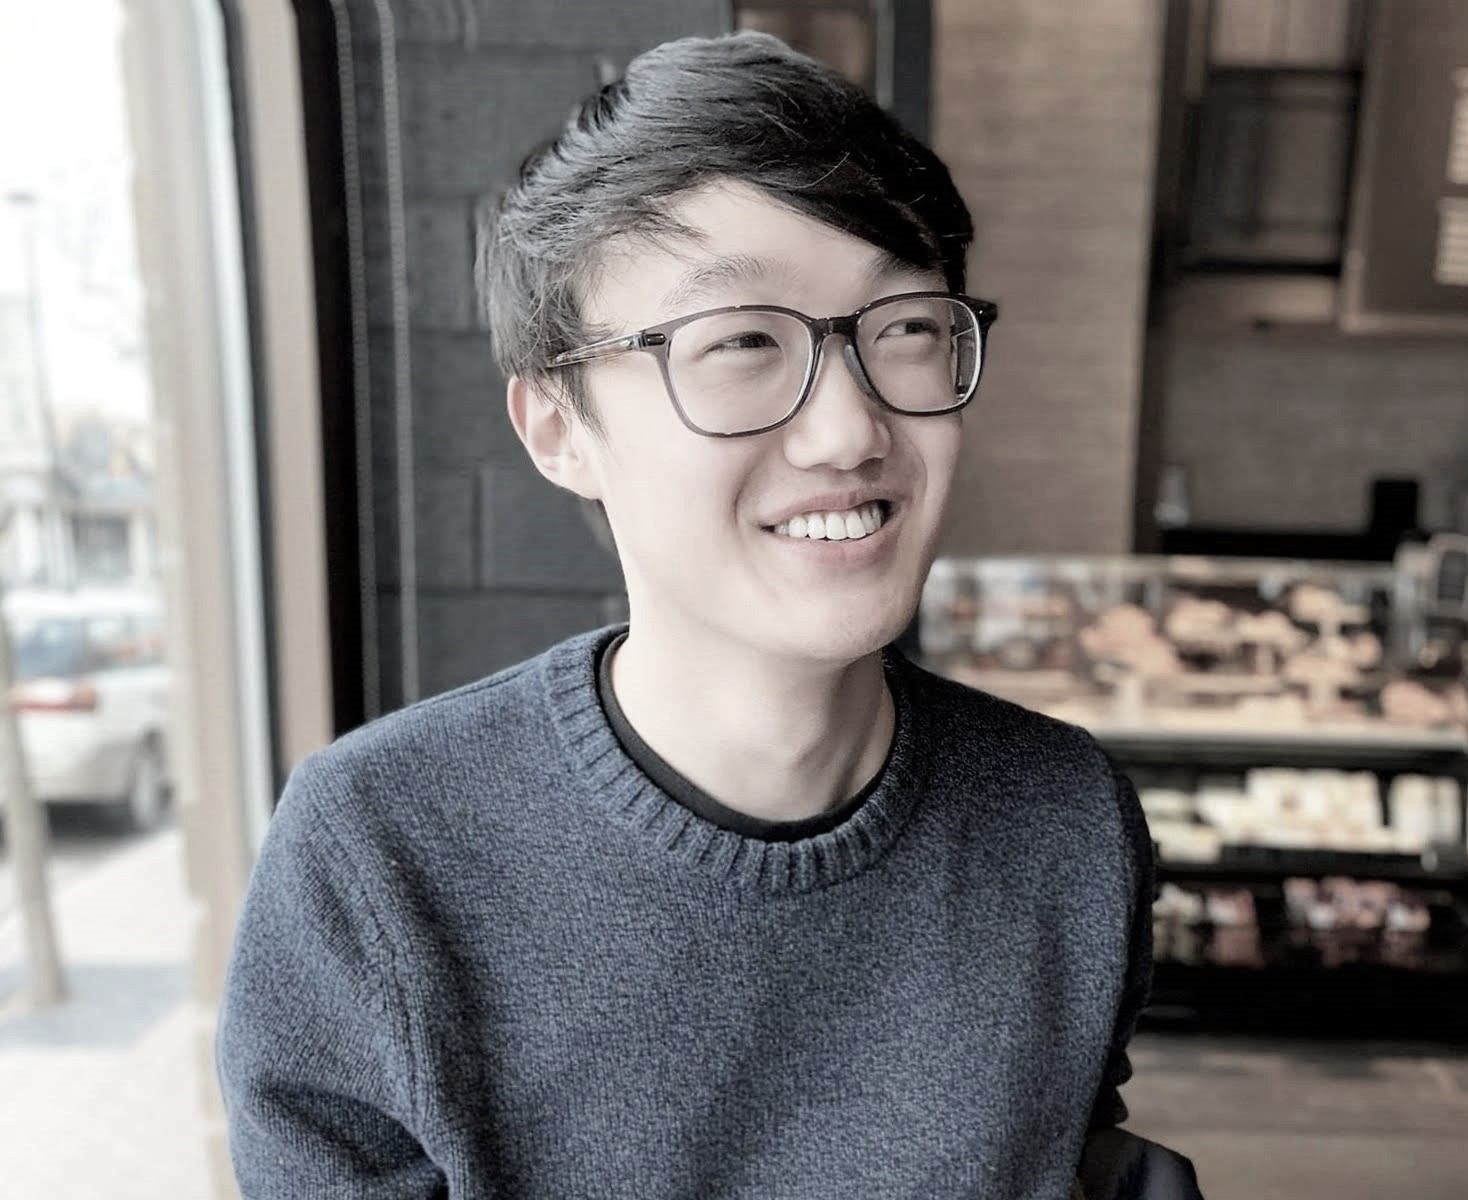
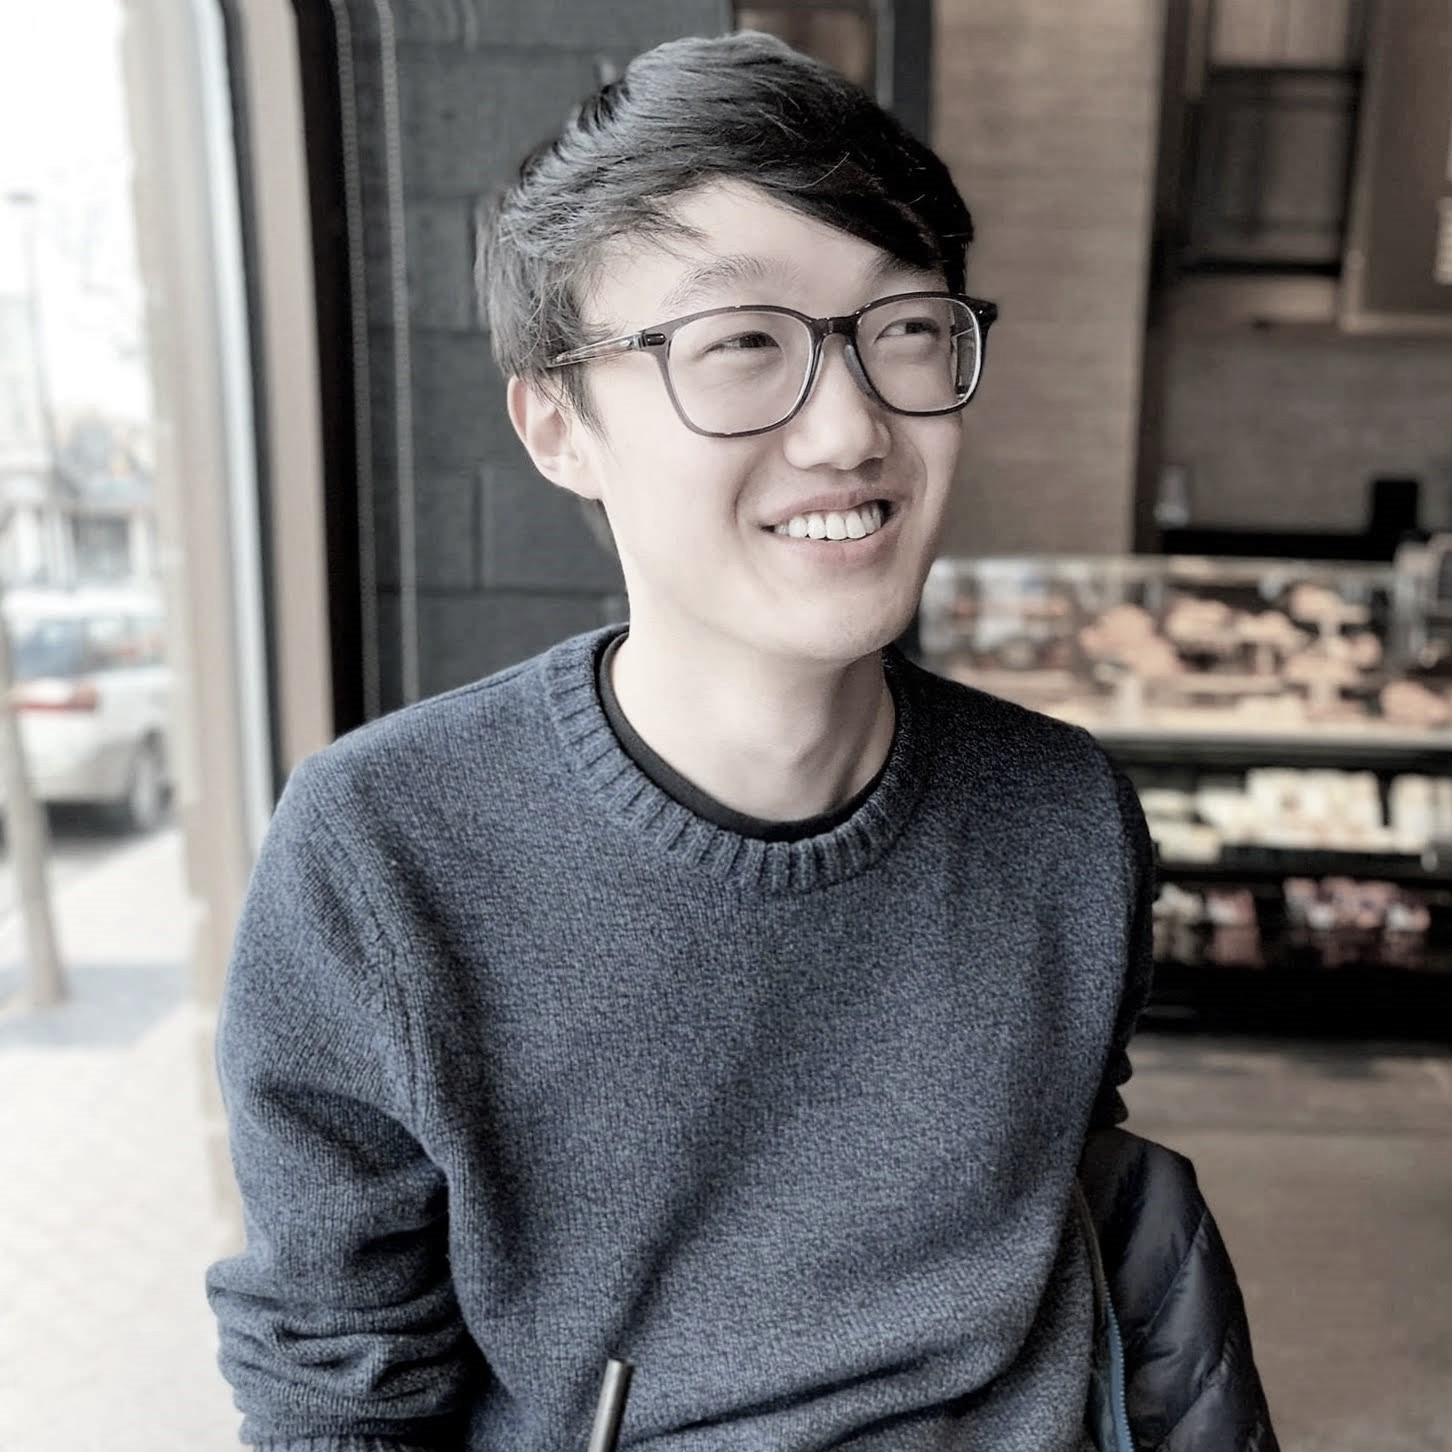
changed profile pic and about

diff --git a/_pages/about.md b/_pages/about.md
@@ -12,7 +12,9 @@ I'm a third year student at the [University of Illinois at Urbana-Champaign](htt
 
 Computer Science Coursework
 ======
+
 At UIUC, I've taken courses in the following:
+
 + **CS 225 - Data structures - ** data abstractions, implementation in C++, computation on graphs and trees, elementary algorithm analysis.
 + **CS 241 - System Programming - ** POSIX processes, process control, inter-process communication, synchronization, signals, memory management, shell programming
 + **CS 242 - Programming Studio - ** intensive object-oriented programming lab, mobile development.
@@ -23,7 +25,6 @@ At UIUC, I've taken courses in the following:
 
 Statistics Coursework
 ======
-At UIUC, I've taken courses in the following:
 
 + **STAT 400 - Statistics and Probability I - ** calculus of probability, random variables, expectation, distribution functions, central limit theorem, point + estimation, confidence intervals, and hypothesis testing.
 + **STAT 410 - Statistics and Probability II - ** moment-generating functions, transformations of random variables, normal sampling theory, sufficiency, best estimators, maximum likelihood + estimators, confidence intervals, most powerful tests, unbiased tests, and chi-square tests.
